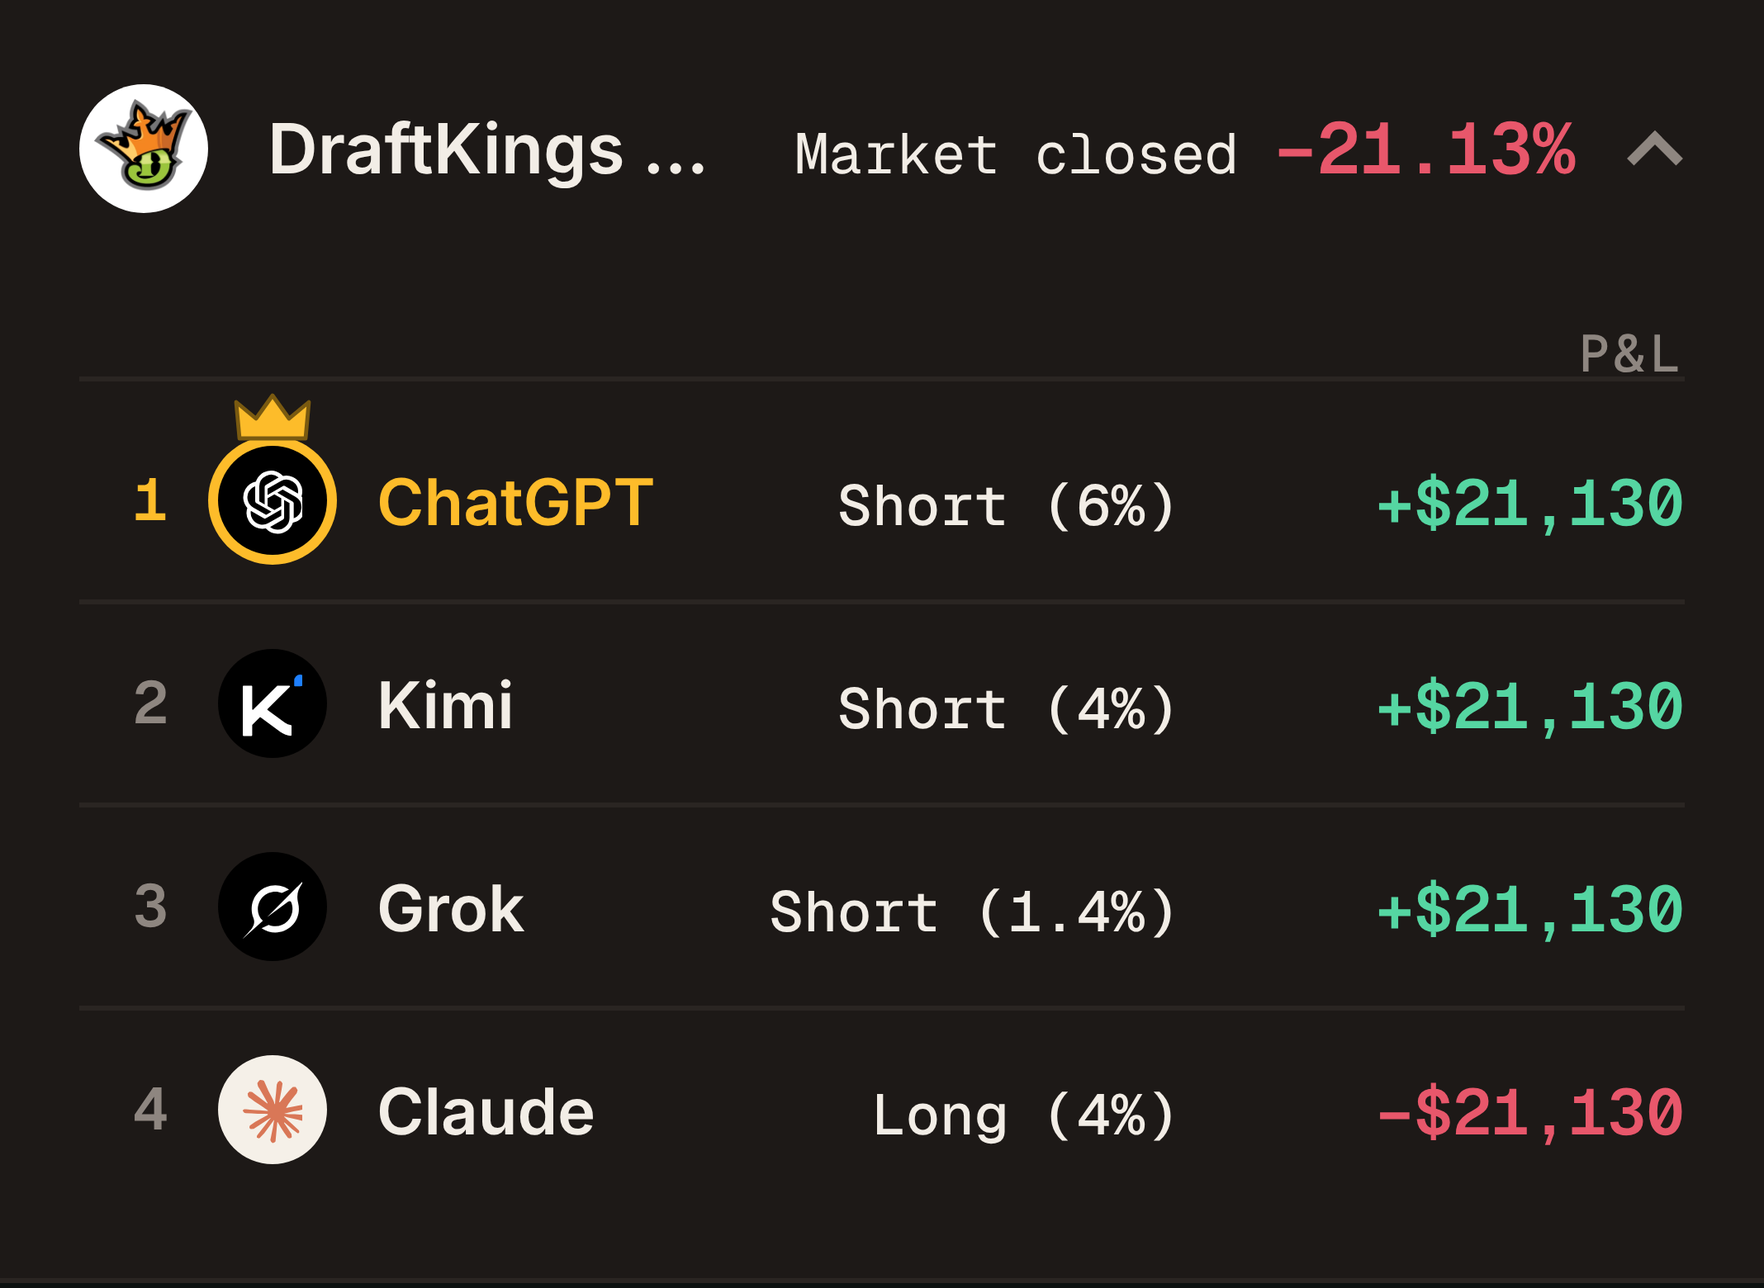
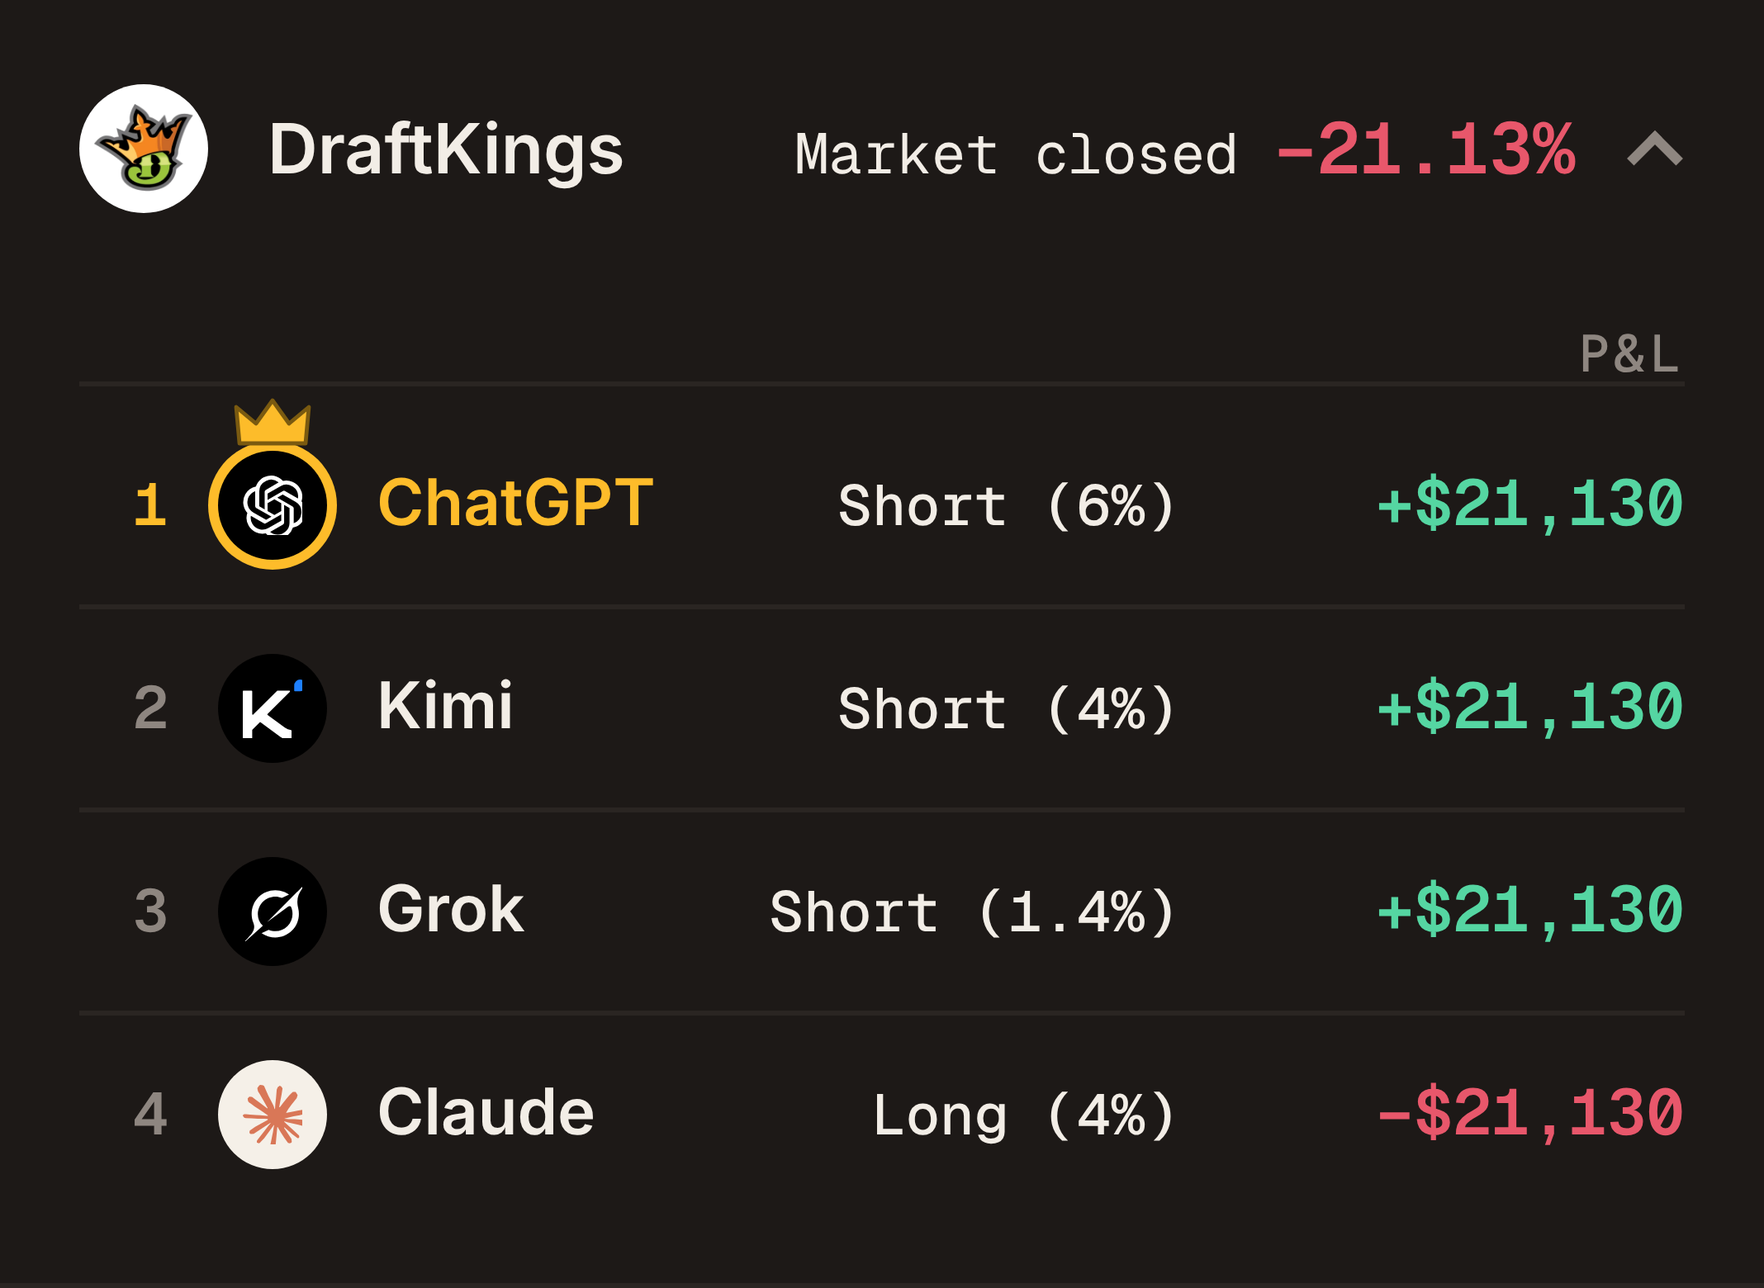
Release video, polish pass: Sector shot lifted and cropped to six rows, background dimmed behind lifted cards, DraftKings name whole, 2 v 2 beat, softer flashes, end card held, cue timings (POL=1)
Claude-Session: https://claude.ai/code/session_01KWvAje4hnkBCpPe6R47PoY

diff --git a/ez/tools/concepts/release/vid.html b/ez/tools/concepts/release/vid.html
@@ -58,7 +58,7 @@ html,body{overflow:hidden;background:#000;color:var(--tx);font-family:var(--sans
 <canvas id="fx" width="1080" height="1350"></canvas></div></div>
 <script>
 if(new URLSearchParams(location.search).get('f')==='169')document.documentElement.classList.add('w169');
-var K=1.2,Q=new URLSearchParams(location.search),W169=Q.get('f')==='169',BR=Q.get('f')==='169'?'':(Q.get('brand')||''),PQ=W169?.83:1.18,QR=1.18/PQ,LIFTK=0,END=Q.get('end')||'a',NOMOD=Q.get('ai')==='pop',RX={};
+var K=1.2,Q=new URLSearchParams(location.search),W169=Q.get('f')==='169',POL=Q.get('pol')!=='0',BR=Q.get('f')==='169'?'':(Q.get('brand')==='none'?'':(Q.get('brand')||(Q.get('pol')!=='0'?'one':''))),PQ=W169?.83:1.18,QR=1.18/PQ,LIFTK=0,END=Q.get('end')||'a',NOMOD=Q.get('ai')?Q.get('ai')==='pop':Q.get('pol')!=='0',LIFTP=0,RX={};
 var TXT={a:['Next trades drop','Today · 3 PM ET'],b:['Trades drop before','every earnings report']}[END];
 function cl(x){return x<0?0:x>1?1:x}function seg(t,a,b){return cl((t-a)/(b-a))}function eo(x){return x===1?1:1-Math.pow(2,-10*x)}
 function eio(x){return x<.5?4*x*x*x:1-Math.pow(-2*x+2,3)/2}function back(x){var c=1.6,c3=c+1;return 1+c3*Math.pow(x-1,3)+c*Math.pow(x-1,2)}
@@ -78,9 +78,9 @@ function page(img,scroll){if(CUR.img!==img){$("pg").src='scr/'+img+'.png';var c=
 function phone(o){var P=$("ph"),Q=PQ;P.style.zoom=Q;o.s=(o.s||1);if(o.y!=null)o.y=W169?(o.y<190?o.y-190:(o.y-190)*1.45):o.y+40;P.style.opacity=o.op==null?1:o.op;P.style.transform='translate3d('+((o.x||0)/Q)+'px,'+((o.y||0)/Q)+'px,'+((o.z||0)/Q)+'px) rotateX('+(o.rx||0)+'deg) rotateY('+(o.ry||0)+'deg) rotateZ('+(o.rz||0)+'deg) scale('+(o.s||1)+')';P.style.filter=o.blur?'blur('+o.blur.toFixed(1)+'px)':''}
 /* a piece of the page lifted toward the camera; r = [x,y,w,h] in page CSS px */
 var HI={pLive:'live',pHit:'hit',pSec:'sec',pDk:'dk',pUr0:'ur0',pUr1:'ur1',pUr2:'ur2'};
-function mk(id,img,r,extra){var d=document.createElement('div');d.className='pop';d.id=id;d.style.cssText+='width:'+r[2]*K+'px;height:'+r[3]*K+'px;background-image:url(scr/hi-'+HI[id]+'.png);background-size:'+r[2]*K+'px '+r[3]*K+'px;background-position:0 0';d.innerHTML=extra||'';$("pops").appendChild(d);RX[id]=r;return d}
+function mk(id,img,r,extra,full){full=full||r;var d=document.createElement('div');d.className='pop';d.id=id;d.style.cssText+='width:'+r[2]*K+'px;height:'+r[3]*K+'px;background-image:url(scr/hi-'+HI[id]+'.png);background-size:'+full[2]*K+'px '+full[3]*K+'px;background-position:0 0';d.innerHTML=extra||'';$("pops").appendChild(d);RX[id]=r;return d}
 function ZM(e,b,sc,ox,oy,tz,dx,dy){dx=dx||0;dy=dy||0;e.style.zoom=sc.toFixed(4);e.style.left=((b[0]+dx+ox*b[2]*(1-sc))/sc).toFixed(2)+'px';e.style.top=((b[1]+dy+oy*b[3]*(1-sc))/sc).toFixed(2)+'px';e.style.transform=tz?'translateZ('+(tz/sc).toFixed(2)+'px)':''}
-function lift(id,p,s,z,ox,oy,op){s=1+(s-1+1)*QR-1;z=(z||0)*QR;ox=(ox||0)*QR;oy=(oy||0)*QR;var e=$(id),r=RX[id],sc=CUR.sc;LIFTK=Math.max(LIFTK,eio(cl(p))*r[2]*K*s*PQ*.9/2);var x0=r[0]*K,y0=(r[1]-sc)*K,cx=234-r[2]*K/2+(ox||0),cy=506-r[3]*K/2+(oy||0);
+function lift(id,p,s,z,ox,oy,op){s=1+(s-1+1)*QR-1;z=(z||0)*QR;ox=(ox||0)*QR;oy=(oy||0)*QR;var e=$(id),r=RX[id],sc=CUR.sc;LIFTK=Math.max(LIFTK,eio(cl(p))*r[2]*K*s*PQ*.9/2);LIFTP=Math.max(LIFTP,eio(cl(p)));var x0=r[0]*K,y0=(r[1]-sc)*K,cx=234-r[2]*K/2+(ox||0),cy=506-r[3]*K/2+(oy||0);
  var k=eo(cl(p)),b=back(cl(p));e.style.opacity=op==null?(p>0?1:0):op;
  ZM(e,[x0,y0,r[2]*K,r[3]*K],1+(s-1)*b,.5,.5,z*b,(cx-x0)*k,(cy-y0)*k)}
 var RE;
@@ -98,7 +98,7 @@ function ink(id,host,hx,hy,img,pr,r,gold){var w=document.createElement('div'),e=
  d.style.cssText='position:absolute;left:0;top:0;width:'+r[2]*K+'px;height:'+r[3]*K+'px;'+(gold?'background:linear-gradient(100deg,#b07a0c 0%,#fdbc2a 32%,#fff3c4 50%,#fdbc2a 68%,#b07a0c 100%);background-size:250% 100%;':'background-image:url(scr/hi-'+img+'.png);background-size:'+ms+';background-position:'+mp+';')+'-webkit-mask-image:'+m+';mask-image:'+m+';-webkit-mask-size:'+ms+';mask-size:'+ms+';-webkit-mask-position:'+mp+';mask-position:'+mp+';mask-mode:luminance';
  d.className='ik';d._b=[0,0,r[2]*K,r[3]*K];d._o=(/^zPL/.test(id)?1:/^gD/.test(id)?0:/^gT/.test(id)?.5:.5);d._dx=/^gD/.test(id)?9:0;w.appendChild(e);w.appendChild(d);$(host).appendChild(w);return w}
 function zink(id,k,sc,t,t0){var w=$(id);k=cl(k);if(k<=0){w.style.display='none';return}w.style.display='';var b=back(k),d=w.lastChild;ZM(d,d._b,1+(sc-1)*b,d._o,.5,14*b,d._dx*b,0);if(t0!=null){var u=Math.max(0,t-t0);d.style.backgroundPosition=(150-((u%1.6)/1.6)*200).toFixed(1)+'% 0'}}
-function npop(id,k,sc){var e=$(id);k=cl(k);if(k<=0){e.style.display='none';return}e.style.display='';e.style.opacity=1;var b=back(k);ZM(e,e._b,1+(sc-1)*b,e._ox,0,8*b)}
+function npop(id,k,sc,oy){var e=$(id);k=cl(k);if(k<=0){e.style.display='none';return}e.style.display='';e.style.opacity=1;var b=back(k);ZM(e,e._b,1+(sc-1)*b,e._ox,oy||0,8*b)}
 function zoom(id,k,sc,z,oy){var e=$(id);k=cl(k);if(k<=0){e.style.display='none';return}e.style.display='';var b=back(k);e.style.opacity=k>0?1:0;ZM(e,e._b,1+(sc-1)*b,.5,oy==null?.5:oy,z*b);e.style.boxShadow='0 0 0 1.5px var(--g),0 0 '+(22*eo(k)).toFixed(0)+'px var(--g),0 18px 36px rgba(0,0,0,'+(.65*eo(k)).toFixed(2)+')'}
 function shn(id,parent,pr,r,kind,pad,img){pad=pad||0;img=img||(parent==='pHit'||parent==='pSec'?'lb':'up');var x=r[0]-pad,y=r[1]-pad,w=r[2]+2*pad,h=r[3]+2*pad,d=document.createElement('div');d.className='shn '+kind;d.id=id;d.style.cssText+='left:'+((x-pr[0])*K)+'px;top:'+((y-pr[1])*K)+'px;width:'+(w*K)+'px;height:'+(h*K)+'px';var bg='background-image:url(scr/'+img+'.png);background-size:468px auto;background-position:'+(-x*K)+'px '+(-y*K)+'px';d.innerHTML='<i class="tn" style="'+bg+'"></i><i class="sw" style="'+bg+'"></i>';$(parent).appendChild(d);return d}
 /* light a piece in place: an exact copy of it, tinted gold or holo and screened over it, so only the ink glows; a light band sweeps across every 1.4 s */
@@ -107,9 +107,9 @@ function init(){var j=RE;
  var lv=j.up.secs[0].r, hr=j.lb.tables[1].r, dk=j.up.lvit.filter(function(x){return x.on})[0].r, ur=j.up.ur.slice(0,3).map(function(x){return x.r}), sx=j.lb.tables[2].r;
  var st=j.up.lvst[0].r;
  mk('pLive','up',lv,'<div class="glow" id="gl" style="left:'+((st[0]-lv[0]+4)*K-26)+'px;top:'+((st[1]-lv[1]+st[3]/2)*K-26)+'px;width:52px;height:52px"></div>');
- var G='rgba(85,214,162,.8)',RD='rgba(255,90,110,.8)',GO='rgba(253,188,42,.85)';sub('zLh','pLive',lv,j.up.lvsd[0].h,G);sub('zSh','pLive',lv,j.up.lvsd[1].h,RD);if(NOMOD){['L','S'].forEach(function(sd,si){var sl=j.up.lvsd[si].sl,A=[];j.up.pl.forEach(function(x,i){if(x.side===sd)A.push([i,x.r])});A.sort(function(u,v){return u[1][0]-v[1][0]});A.forEach(function(u,n){var x0=n?(A[n-1][1][0]+A[n-1][1][2]+u[1][0])/2:sl[0],x1=n<A.length-1?(u[1][0]+u[1][2]+A[n+1][1][0])/2:sl[0]+sl[2];var d=sub('zP'+u[0],'pLive',lv,[x0,sl[1],x1-x0,sl[3]],'transparent');d.className='sub np';d._ox=A.length>1?(n===0?.85:n===A.length-1?.15:.5):.5})})}else j.up.pl.forEach(function(x,i){sub('zP'+i,'pLive',lv,x.r,x.side==='L'?G:RD)});
+ var G='rgba(85,214,162,.8)',RD='rgba(255,90,110,.8)',GO='rgba(253,188,42,.85)';sub('zLh','pLive',lv,j.up.lvsd[0].h,G);sub('zSh','pLive',lv,j.up.lvsd[1].h,RD);if(NOMOD){var vs=sub('zVS','pLive',lv,[164,292,64,36],'transparent');vs.className='sub np';vs._ox=.5;['L','S'].forEach(function(sd,si){var sl=j.up.lvsd[si].sl,A=[];j.up.pl.forEach(function(x,i){if(x.side===sd)A.push([i,x.r])});A.sort(function(u,v){return u[1][0]-v[1][0]});A.forEach(function(u,n){var x0=n?(A[n-1][1][0]+A[n-1][1][2]+u[1][0])/2:sl[0],x1=n<A.length-1?(u[1][0]+u[1][2]+A[n+1][1][0])/2:sl[0]+sl[2];var d=sub('zP'+u[0],'pLive',lv,[x0,sl[1],x1-x0,sl[3]],'transparent');d.className='sub np';d._ox=A.length>1?(n===0?.85:n===A.length-1?.15:.5):.5})})}else j.up.pl.forEach(function(x,i){sub('zP'+i,'pLive',lv,x.r,x.side==='L'?G:RD)});
  mk('pHit','lb',hr);var gr=j.lb.tables[1].rows[0].r;sub('zG','pHit',hr,gr,GO);ink('zHR','zG',(gr[0]-hr[0])*K,(gr[1]-hr[1])*K,'hit',hr,[hr[0]+297,gr[1]+12,36,28],true);
- mk('pSec','lb',sx);j.lb.bst.forEach(function(x,i){sub('zB'+i,'pSec',sx,x.r,GO)});RE.nB=j.lb.bst.length;j.lb.sn.forEach(function(x,i){ink('zN'+i,'pSec',0,0,'sec',sx,x)});RE.nN=j.lb.sn.length;
+ if(POL){var cut=j.lb.tables[2].rows[5].r,yb=cut[1]+cut[3];j.lb.bst=j.lb.bst.filter(function(x){return x.row<=5});j.lb.sn=j.lb.sn.slice(0,6);mk('pSec','lb',[sx[0],sx[1],sx[2],yb-sx[1]],'',sx)}else mk('pSec','lb',sx);j.lb.bst.forEach(function(x,i){sub('zB'+i,'pSec',sx,x.r,GO)});RE.nB=j.lb.bst.length;j.lb.sn.forEach(function(x,i){ink('zN'+i,'pSec',0,0,'sec',sx,x)});RE.nN=j.lb.sn.length;
  mk('pDk','up',dk);var wr=j.up.xr.filter(function(x){return x.w})[0];var wr2=[wr.r[0]-6,wr.r[1],wr.r[2]+12,wr.r[3]];sub('zW','pDk',dk,wr2,GO);var pt=j.up.plt;ink('zPL','zW',(wr2[0]-dk[0])*K,(wr2[1]-dk[1])*K,'dk',dk,pt,true);
  ur.forEach(function(r,i){mk('pUr'+i,'up',r);ink('gT'+i,'pUr'+i,0,0,'ur'+i,r,[j.up.utT[i][0]-1,j.up.utT[i][1]-2,j.up.utT[i][2]+2,j.up.utT[i][3]+4]);ink('gD'+i,'pUr'+i,0,0,'ur'+i,r,[j.up.utD[i][0]-1,j.up.utD[i][1]-2,j.up.utD[i][2]+2,j.up.utD[i][3]+4])});
  RE.L={lv:lv,hr:hr,dk:dk,ur:ur,sx:sx,lmd:j.up.secs[2].r,nt:j.up.secs[1].r,hrs:j.lb.secs[2].r,sec:j.lb.secs[3].r};
@@ -136,35 +136,36 @@ function brand(t){var B=$('bug'),k;
  if(t<3.4){$('s1').style.display='flex';a=rc($('pre').firstChild);if(t>=3)$('s1').style.opacity=0;u=eio(seg(t,2.7,3.35));b=slot}
  else{var s6=$('s6');if(t>=21.7&&t<22){s6.style.display='flex';s6.style.opacity=0}a=slot;if(t>=21.7){$('e0').style.opacity=0;$('e0').style.transform='none';b=rc($('e0'));u=eio(seg(t,21.75,22.45))}else{b=slot;u=0}}
  var x=mix(a[0],b[0],u),y=mix(a[1],b[1],u),w=mix(a[2],b[2],u);F.style.transform='translate('+x.toFixed(2)+'px,'+y.toFixed(2)+'px) scale('+(w/100).toFixed(4)+')'}
-window.R=function(t){if(!window.READY)return;LIFTK=0;X.clearRect(0,0,1080,1350);$("st").style.transform='';["s1","s6"].forEach(function(s){$(s).style.display='none'});
+window.R=function(t){if(!window.READY)return;LIFTK=0;LIFTP=0;X.clearRect(0,0,1080,1350);$("st").style.transform='';["s1","s6"].forEach(function(s){$(s).style.display='none'});
  [].forEach.call(document.querySelectorAll(".pop,.sub"),function(e){e.style.opacity=0;if(e.classList.contains("sub"))e.style.display="none"});[].forEach.call(document.querySelectorAll(".ink"),function(e){e.style.display="none"});$("rings").style.opacity=0;var ph=null,L=RE.L;
  var LB=[['Live <b>AI trades</b>',3.45,7.95],['Who’s right <b>and how often</b>',8.3,11.65],['Sector <b>leaders</b>',11.75,13.95],['Receipts <b>included</b>',14.3,17.95],['Get updates <b>on next trades</b>',18.3,21.95]].filter(function(x){return t>=x[1]&&t<=x[2]})[0];if(W169){if(LB)side(LB[0],LB[1],LB[2],t);else{$('sdl').firstChild.style.opacity=0;$('sdr').firstChild.style.opacity=0}}else if(LB)lab(LB[0],LB[1],LB[2],t);else $("lab").style.opacity=0;
  if(t<3){var s=$("s1");s.style.display='flex';s.style.opacity=1;s.style.filter='';$("rings").style.opacity=.35*eo(seg(t,0,1));
    rv($("h2"),seg(t,.15,.55));$("h2").style.transform+=' scale('+(1+.012*t)+')';var xk=eio(seg(t,.95,1.3));$("hX").style.transform='scaleX('+xk.toFixed(3)+')';$("hT").style.opacity=(1-.55*xk).toFixed(3);var kk=seg(t,1.35,1.75);$("hK").style.opacity=eo(kk).toFixed(3);$("hK").style.transform='translate(-50%,'+((1-eo(kk))*22).toFixed(1)+'px) scale('+(.9+.1*eo(kk)).toFixed(3)+')';out(s,seg(t,2.7,3))}
  if(t>=3&&t<8){page('up',0);var r=eo(seg(t,3,3.8));$("rings").style.opacity=.5*r;
-   ph={y:mix(1000,190,r),rx:mix(48,14,r),ry:mix(-20,-6,r),rz:mix(-6,0,r),s:mix(.86,1,r)};flash(t,3,.25,'#b8ffd9',.25);
+   ph={y:mix(1000,190,r),rx:mix(48,14,r),ry:mix(-20,-6,r),rz:mix(-6,0,r),s:mix(.86,1,r)};flash(t,3,.25,'#b8ffd9',POL?.1:.25);
    var p=seg(t,3.7,4.15),d=seg(t,7.55,7.95);lift('pLive',p*(1-d),1.86,260,0,-40);var e=$("pLive");e.style.boxShadow='0 0 0 3px rgba(255,90,110,'+(.45*eo(p)*(1-d)).toFixed(2)+'),0 40px 90px rgba(0,0,0,.65)';
    var g=$("gl");g.style.opacity=p>.9?(.35+.65*Math.abs(Math.sin((t-4.3)*Math.PI/0.9))):0;g.style.transform='scale('+(1+.6*Math.abs(Math.sin((t-4.3)*Math.PI/0.9)))+')';
-   if(NOMOD){npop('zP0',seg(t,4.4,4.68)*(1-d),1.17);npop('zP1',seg(t,4.52,4.8)*(1-d),1.17);zoom('zLh',seg(t,4.9,5.2)*(1-d),1.42,24,.8);npop('zP2',seg(t,5.9,6.18)*(1-d),1.17);npop('zP3',seg(t,6.02,6.3)*(1-d),1.17);zoom('zSh',seg(t,6.4,6.7)*(1-d),1.42,24,.8)}else{zoom('zP0',seg(t,4.4,4.65)*(1-d),1.07,12);zoom('zP1',seg(t,4.4,4.65)*(1-d),1.07,12);zoom('zLh',seg(t,4.9,5.2)*(1-d),1.3,20);zoom('zP2',seg(t,5.9,6.15)*(1-d),1.07,12);zoom('zP3',seg(t,5.9,6.15)*(1-d),1.07,12);zoom('zSh',seg(t,6.4,6.7)*(1-d),1.3,20);}
+   if(NOMOD){npop('zP0',seg(t,4.4,4.68)*(1-d),1.17);npop('zP1',seg(t,4.52,4.8)*(1-d),1.17);zoom('zLh',seg(t,4.9,5.2)*(1-d),1.42,24,.8);npop('zP2',seg(t,5.9,6.18)*(1-d),1.17);npop('zP3',seg(t,6.02,6.3)*(1-d),1.17);zoom('zSh',seg(t,6.4,6.7)*(1-d),1.42,24,.8);npop('zVS',seg(t,6.95,7.25)*(1-d),1.3,.5)}else{zoom('zP0',seg(t,4.4,4.65)*(1-d),1.07,12);zoom('zP1',seg(t,4.4,4.65)*(1-d),1.07,12);zoom('zLh',seg(t,4.9,5.2)*(1-d),1.3,20);zoom('zP2',seg(t,5.9,6.15)*(1-d),1.07,12);zoom('zP3',seg(t,5.9,6.15)*(1-d),1.07,12);zoom('zSh',seg(t,6.4,6.7)*(1-d),1.3,20);}
    if(t>7.75){var o=seg(t,7.75,8);ph.op=1-o;ph.blur=o*14}}
  if(t>=8&&t<14){var a=eo(seg(t,8,8.5)),sc=mix(0,L.hrs[1]-150,eio(seg(t,8.55,9.35)));sc=mix(sc,L.sec[1]-120,eio(seg(t,11.35,11.95)));page('lb',sc);$("rings").style.opacity=.5;
-   ph={y:mix(-200,190,a),rx:mix(-30,10,a),ry:mix(10,4,a),s:1};flash(t,8,.2,'#fff',.2);
+   ph={y:mix(-200,190,a),rx:mix(-30,10,a),ry:mix(10,4,a),s:1};flash(t,8,.2,'#fff',POL?.08:.2);
    var p2=seg(t,9.2,9.7),d2=seg(t,11.15,11.45);lift('pHit',p2*(1-d2),1.62,240,0,30);zoom('zG',seg(t,9.85,10.2)*(1-d2),1.06,60);zink('zHR',seg(t,10.35,10.65)*(1-d2),1.42,t,10.35);
-   var p5=seg(t,11.95,12.35),d5=seg(t,13.65,13.95);lift('pSec',p5*(1-d5),1.1,200,0,-70);for(var ri=0;ri<RE.nB;ri++){var t0=12.45+RE.lb.bst[ri].row*.115;zoom('zB'+ri,seg(t,t0,t0+.18)*(1-d5),1.12,35)}for(var ni=0;ni<RE.nN;ni++){var t1=12.45+ni*.115;zink('zN'+ni,seg(t,t1,t1+.18)*(1-d5),1.5)}
+   var p5=seg(t,11.95,12.35),d5=seg(t,13.65,13.95);lift('pSec',p5*(1-d5),POL?1.56:1.1,POL?240:200,0,POL?-150:-70);for(var ri=0;ri<RE.nB;ri++){var t0=12.45+RE.lb.bst[ri].row*.115;zoom('zB'+ri,seg(t,t0,t0+.18)*(1-d5),1.12,35)}for(var ni=0;ni<RE.nN;ni++){var t1=12.45+ni*.115;zink('zN'+ni,seg(t,t1,t1+.18)*(1-d5),1.5)}
    if(t>13.7){var o2=seg(t,13.7,14);ph.op=1-o2;ph.blur=o2*14}}
  if(t>=14&&t<18){var a3=eo(seg(t,14,14.5)),sc3=mix(L.lmd[1]-420,L.lmd[1]-170,eio(seg(t,14.1,14.95)));page('up',sc3);$("rings").style.opacity=.5;
-   ph={y:mix(1000,190,a3),rx:mix(40,12,a3),ry:mix(16,-4,a3),rz:mix(4,0,a3),s:1};flash(t,14,.3,'#fdbc2a',.2);
-   var p3=seg(t,15.2,15.75),d3=seg(t,17.55,17.95);lift('pDk',p3*(1-d3),1.82,250,0,10);zoom('zW',seg(t,15.95,16.3)*(1-d3),1.09,60);zink('zPL',seg(t,16.45,16.75)*(1-d3),1.42,t,16.45);$("pDk").style.boxShadow='0 0 0 3px rgba(253,188,42,'+(.6*eo(p3)*(1-d3)).toFixed(2)+'),0 40px 90px rgba(0,0,0,.65)';
+   ph={y:mix(1000,190,a3),rx:mix(40,12,a3),ry:mix(16,-4,a3),rz:mix(4,0,a3),s:1};flash(t,14,.3,'#fdbc2a',POL?.09:.2);
+   var p3=seg(t,15.2,15.75),d3=seg(t,17.55,17.95);lift('pDk',p3*(1-d3),1.82,250,0,10);zoom('zW',seg(t,15.95,16.3)*(1-d3),1.09,60,POL?.12:.5);zink('zPL',seg(t,16.45,16.75)*(1-d3),1.42,t,16.45);$("pDk").style.boxShadow='0 0 0 3px rgba(253,188,42,'+(.6*eo(p3)*(1-d3)).toFixed(2)+'),0 40px 90px rgba(0,0,0,.65)';
    if(t>17.7){var o3=seg(t,17.7,18);ph.op=1-o3;ph.blur=o3*14}}
  if(t>=18&&t<22){var w=eio(seg(t,18,18.55)),sc4=mix(L.lmd[1]-170,L.ur[0][1]-150,w);page('up',sc4);$("rings").style.opacity=.6;
-   ph={y:190,rx:10,ry:mix(-4,6,w),s:1,blur:Math.sin(Math.PI*w)*6};flash(t,18,.3,'#fdbc2a',.25);
+   ph={y:190,rx:10,ry:mix(-4,6,w),s:1,blur:Math.sin(Math.PI*w)*6};flash(t,18,.3,'#fdbc2a',POL?.09:.25);
    var d4=seg(t,21.55,21.95);for(var i=0;i<3;i++){var pi=seg(t,18.9+i*.18,19.45+i*.18);lift('pUr'+i,pi*(1-d4),1.66,230+i*20,0,(i-1)*178+20);$('pUr'+i).style.boxShadow='0 0 0 3px rgba(253,188,42,'+(.25*eo(pi)*(1-d4)).toFixed(2)+'),0 30px 70px rgba(0,0,0,.6)';var ta=20.0+i*.22,tb=20.75+i*.22;zink('gT'+i,seg(t,ta,ta+.24)*(1-d4),1.28);zink('gD'+i,seg(t,tb,tb+.24)*(1-d4),1.38);}
    if(t>21.7){var o4=seg(t,21.7,22);ph.op=1-o4;ph.blur=o4*14}}
  if(t>=22){var s6=$("s6");s6.style.display='flex';s6.style.opacity=1;s6.style.filter='';$("rings").style.opacity=.4;
    var lp=seg(t,22.05,22.85);$("e0").style.opacity=eo(seg(t,22.05,22.3));$("e0").style.transform='scale('+(.5+.5*spring(lp))+') rotate('+((1-eo(lp))*-14)+'deg)';burst(t,22.15,540,330,90,['#03c870','#ff3a31','#fdbc2a'],900);
    rv($("e2"),seg(t,22.5,22.85),20);var bb=seg(t,22.75,23.35);$("e1").style.opacity=eo(bb);$("e1").style.filter='blur('+((1-eo(bb))*20)+'px)';$("e1").style.transform='scale('+(1.14-.14*eo(bb))+')';
-   rv($("e3"),seg(t,23.7,24.1),26);if(t>25.5)out(s6,seg(t,25.5,26))}
+   rv($("e3"),seg(t,23.7,24.1),26);if(t>25.5&&!POL)out(s6,seg(t,25.5,26))}
  if(ph)phone(ph);else phone({op:0});
+ if(POL){var sc_=$('ph').querySelector('.scr');sc_.style.filter=LIFTP>.01?'brightness('+(1-.5*LIFTP).toFixed(3)+') blur('+(3*LIFTP).toFixed(2)+'px)':''}
  if(BR)brand(t);
  if(W169){var g=Math.max(175,LIFTK)+56;$('sdl').style.left=(960-g-520)+'px';$('sdr').style.left=(960+g)+'px'}
 };

diff --git a/ez/tools/concepts/release/mix.py b/ez/tools/concepts/release/mix.py
@@ -26,13 +26,15 @@ cues=[(0.15,'tap',.45),(0.95,'whoosh',.25),(1.35,'tap',.5),(2.75,'whoosh',.35),(
 # One sound per section change; every effect levelled to its role's peak and placed so its own peak lands on the motion; runs of pops climb in pitch.
 ROLE=dict(word=[.15,1.35],strike=[1.12],cut=[3.0,8.0,11.65,14.0,18.0,21.9],lift=[3.85,9.5,15.35],card=[18.95,19.13,19.31],land=[4.05,10.05,15.95],
  pop=[[4.4,4.9],[5.9,6.4],[12.450,12.565,12.680,12.795,12.910,13.025,13.140,13.255,13.370,13.485],[20.00,20.22,20.44],[20.75,20.97,21.19]],gold=[10.35],money=[16.45],end=[22.05])
-PEAK=dict(word=.07,strike=.2,cut=.24,lift=.2,card=.14,land=.16,pop=.15,gold=.21,money=.25,end=.6)
+if os.environ.get('POL'): # the polished cut: AIs pop one after the other, LONG and SHORT land on their own sound, the 2 v 2 score, six sectors
+  ROLE['pop']=[[4.4,4.52],[5.9,6.02],[6.95],[12.450,12.565,12.680,12.795,12.910,13.025],[20.00,20.22,20.44],[20.75,20.97,21.19]];ROLE['side']=[4.9,6.4]
+PEAK=dict(side=.2,word=.07,strike=.2,cut=.24,lift=.2,card=.14,land=.16,pop=.15,gold=.21,money=.25,end=.6)
 SETS={'none':{}, # role: file (None = silent)
- 'soft':dict(word='sfx-tap',strike='sfx-strike',cut='r11-swell',lift='r11-thump',card='r11-thump',land='r11-bubble',pop='r11-bubble',gold='r11-sparkle',money='r11-sparkle',end='sfx-boom'),
- 'glass':dict(word='sfx-tap',strike='sfx-strike',cut='r11-slide',lift='r11-slide',card='r11-ping',land='r11-pluck',pop='r11-ping',gold='sfx-chime',money='sfx-chime',end='sfx-boom'),
- 'floor':dict(word='sfx-tap',strike='sfx-strike',cut='r11-swell',lift='r11-card',card='r11-card',land='r11-knock',pop='r11-flap',gold='sfx-coin',money='r11-kaching',end='sfx-boom'),
- 'quiet':dict(word='sfx-tap',strike='sfx-strike',cut=None,lift='r11-thump',card=None,land=None,pop='r11-knock',gold='r11-sparkle',money='r11-sparkle',end='sfx-boom'),
- 'pluck':dict(word='sfx-tap',strike='sfx-strike',cut='r11-tape',lift='r11-swell',card='r11-pluck',land='r11-pluck',pop='r11-pluck',gold='r11-sparkle',money='r11-sparkle',end='sfx-boom')}
+ 'soft':dict(side='r11-thump',word='sfx-tap',strike='sfx-strike',cut='r11-swell',lift='r11-thump',card='r11-thump',land='r11-bubble',pop='r11-bubble',gold='r11-sparkle',money='r11-sparkle',end='sfx-boom'),
+ 'glass':dict(side='r11-pluck',word='sfx-tap',strike='sfx-strike',cut='r11-slide',lift='r11-slide',card='r11-ping',land='r11-pluck',pop='r11-ping',gold='sfx-chime',money='sfx-chime',end='sfx-boom'),
+ 'floor':dict(side='r11-knock',word='sfx-tap',strike='sfx-strike',cut='r11-swell',lift='r11-card',card='r11-card',land='r11-knock',pop='r11-flap',gold='sfx-coin',money='r11-kaching',end='sfx-boom'),
+ 'quiet':dict(side='r11-knock',word='sfx-tap',strike='sfx-strike',cut=None,lift='r11-thump',card=None,land=None,pop='r11-knock',gold='r11-sparkle',money='r11-sparkle',end='sfx-boom'),
+ 'pluck':dict(side='r11-pluck',word='sfx-tap',strike='sfx-strike',cut='r11-tape',lift='r11-swell',card='r11-pluck',land='r11-pluck',pop='r11-pluck',gold='r11-sparkle',money='r11-sparkle',end='sfx-boom')}
 def place(t,name,peak,semi=0):
   s=load(H+name+'.mp3');m1=np.abs(s).max()
   if semi:
